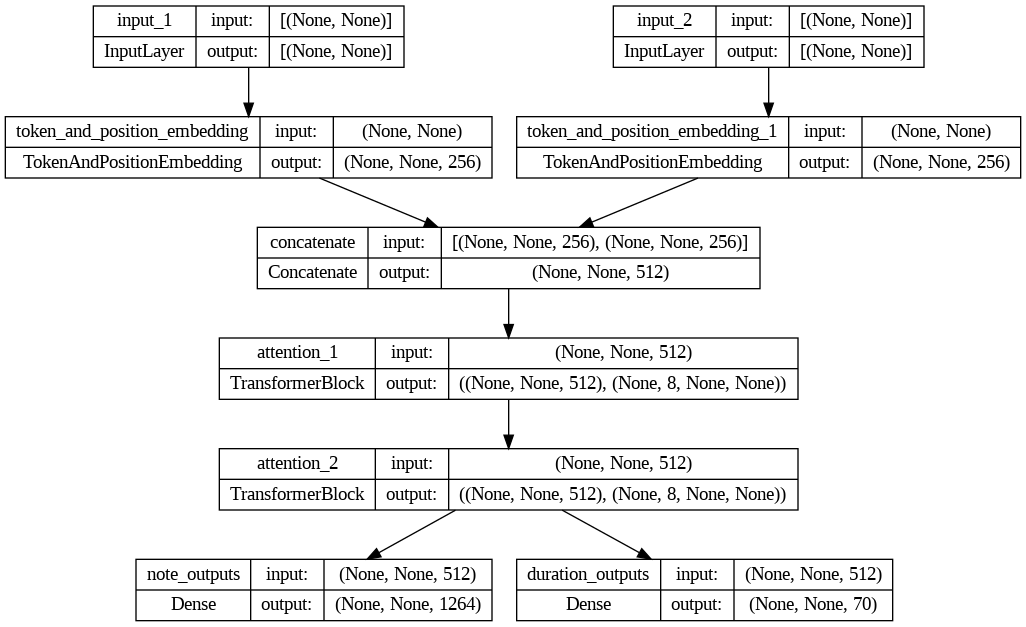
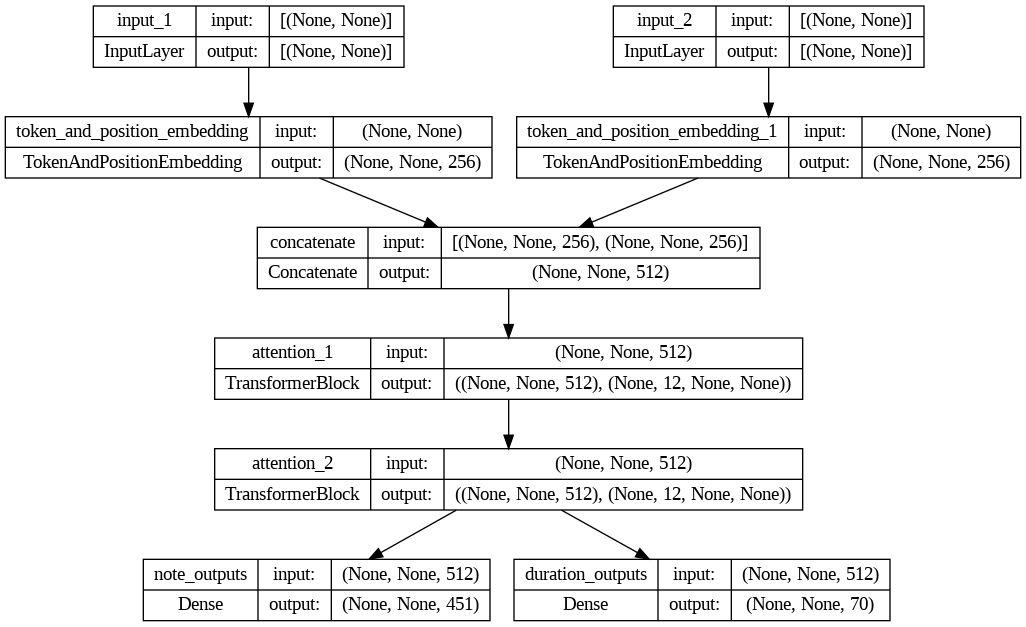
Update -- reworked voice merging system in choral model to use cross-voice interleaving; drastic increase in performance and training time

diff --git a/main.py b/main.py
@@ -61,7 +61,7 @@ def generate_composition(dataset="Combined_choral", generate_len=50, num_to_gene
         durations_vocab = pkl.load(f)
 
     # model = build_model(len(notes_vocab), len(durations_vocab), feed_forward_dim=512, num_heads=8)
-    if choral and suffix == "":
+    if choral and suffix in ["", "_New", "_Mini_New"]:
         model = build_model(len(notes_vocab), len(durations_vocab), embedding_dim=512, feed_forward_dim=1024,
                             key_dim=64, dropout_rate=0.3, l2_reg=1e-4, num_transformer_blocks=2, num_heads=8)
     elif suffix in ["_Mini", "_Tiny"]:
@@ -197,25 +197,55 @@ def train_choral_composition_model(epochs=100, suffix=""):
     INCLUDE_AUGMENTED = False
     DATAPATH = "Data/Glob/Combined_choral"
     VALIDATION_SPLIT = 0.1
-    # WEIGHT_DECAY = 1e-4
+    WEIGHT_DECAY = 1e-4
 
-    def merge_voice_parts(voice_parts_notes, voice_parts_durations):
+    def merge_voice_parts(voice_parts_notes, voice_parts_durations, seq_len=50):
         merged_notes = []
         merged_durations = []
         min_length = min([len(voice_parts_notes[voice]) for voice in voice_parts_notes])
         for voice in voice_parts_notes:
             voice_parts_notes[voice] = voice_parts_notes[voice][:min_length]
             voice_parts_durations[voice] = voice_parts_durations[voice][:min_length]
-        # max_len = max([len(voice_parts_notes[voice]) for voice in voice_parts_notes])
-        # for voice in voice_parts_notes:
-        #   cur_len = len(voice_parts_notes[voice])
-        #   voice_parts_notes[voice] = voice_parts_notes[voice] + voice_parts_notes[voice][:max_len-cur_len]
-        #   voice_parts_durations[voice] = voice_parts_durations[voice] + voice_parts_durations[voice][:max_len-cur_len]
-        for idx in range(len(voice_parts_notes["S"])):
-            note_str = " ".join([voice_parts_notes[voice][idx] for voice in voice_parts_notes])
-            duration_str = " ".join([voice_parts_durations[voice][idx] for voice in voice_parts_durations])
-            merged_notes.append(note_str)
-            merged_durations.append(duration_str)
+        # Old design: put notes in voice order ([S, S, S, ..., A, A, A, ..., T, T, T, ..., B, B, B, ...], ...)
+        # for idx in range(len(voice_parts_notes["S"])):
+        #     note_str = " ".join([voice_parts_notes[voice][idx] for voice in voice_parts_notes])
+        #     duration_str = " ".join([voice_parts_durations[voice][idx] for voice in voice_parts_durations])
+        #     merged_notes.append(note_str)
+        #     merged_durations.append(duration_str)
+        # New design attempt 1 -- put notes in cross-voice order ([S, A, T, B, S, A, T, B], ...)
+        notes_sequences = {"S": [], "A": [], "T": [], "B": []}
+        durations_sequences = {"S": [], "A": [], "T": [], "B": []}
+        for i in range(min_length):
+            for voice in voice_parts_notes:
+                notes_sequences[voice] += voice_parts_notes[voice][i].split(" ")
+                durations_sequences[voice] += voice_parts_durations[voice][i].split(" ")
+        note_parts_combined = []
+        duration_parts_combined = []
+        for i in range(0, min_length * 4, 4):  # each iteration processes one SATB set
+            if i + 4 > min_length * 4:  # if we're at the end and there's no full SATB set
+                break
+            for part in ['S', 'A', 'T', 'B']:
+                note_parts_combined.extend(notes_sequences[part][i // 4:i // 4 + 1])
+                duration_parts_combined.extend(durations_sequences[part][i // 4:i // 4 + 1])
+        # Split the combined sequences into chunks of seq_len
+        for i in range(0, len(note_parts_combined), seq_len):
+            merged_notes.append(' '.join(note_parts_combined[i:i + seq_len]))
+            merged_durations.append(' '.join(duration_parts_combined[i:i + seq_len]))
+        # New design attempt 2 -- combine cross-voice notes into one token (S:Note;A:Note;T:Note;B:Note)
+        # combined_tokens = []
+        # for i in range(min_length):
+        #     # Create the combined token for each index i
+        #     combined_note = ";".join([f"{voice}:{voice_parts_notes[voice][i]}" for voice in ['S', 'A', 'T', 'B']])
+        #     combined_duration = ";".join(
+        #         [f"{voice}:{voice_parts_durations[voice][i]}" for voice in ['S', 'A', 'T', 'B']])
+        #     combined_tokens.append((combined_note, combined_duration))
+        #
+        # # Chunk the combined SATB tokens into sequences of specified length
+        # for i in range(0, len(combined_tokens), seq_len):
+        #     notes_chunk = " ".join([token[0] for token in combined_tokens[i:i + seq_len]])
+        #     durations_chunk = " ".join([token[1] for token in combined_tokens[i:i + seq_len]])
+        #     merged_notes.append(notes_chunk)
+        #     merged_durations.append(durations_chunk)
         return merged_notes, merged_durations
 
     voices = ["S", "A", "T", "B"]
@@ -288,18 +318,17 @@ def train_choral_composition_model(epochs=100, suffix=""):
 
     gc.collect()
     # model = build_model(notes_vocab_size, durations_vocab_size, feed_forward_dim=512, num_heads=8)
-    # model = build_model(notes_vocab_size, durations_vocab_size, embedding_dim=512, feed_forward_dim=1024, num_heads=8,
-    #                     key_dim=64, dropout_rate=0.3, l2_reg=WEIGHT_DECAY, num_transformer_blocks=3, gradient_clip=1.)
-
+    model = build_model(notes_vocab_size, durations_vocab_size, embedding_dim=512, feed_forward_dim=1024, num_heads=8,
+                        key_dim=64, dropout_rate=0.3, l2_reg=WEIGHT_DECAY, num_transformer_blocks=2, gradient_clip=1.5)
     # Micro and Tiny models
     # model = build_model(notes_vocab_size, durations_vocab_size, embedding_dim=512, feed_forward_dim=512, num_heads=12,
     #                     key_dim=64, dropout_rate=0.4, l2_reg=0.0005, num_transformer_blocks=2, gradient_clip=1.5)
-    model = build_model(notes_vocab_size, durations_vocab_size, embedding_dim=512, feed_forward_dim=512, num_heads=8,
-                        key_dim=64, dropout_rate=0.3, l2_reg=0.0005, num_transformer_blocks=1, gradient_clip=1.5)
+    # model = build_model(notes_vocab_size, durations_vocab_size, embedding_dim=512, feed_forward_dim=512, num_heads=8,
+    #                     key_dim=64, dropout_rate=0.3, l2_reg=0.0005, num_transformer_blocks=1, gradient_clip=1.5)
     plot_model(model, to_file=f'Images/Combined_choral_composition{suffix.lower()}_model.png',
                show_shapes=True, show_layer_names=True, expand_nested=True)
 
-    LOAD_MODEL = True
+    LOAD_MODEL = False
     if LOAD_MODEL:
         model.load_weights(f"Weights/Composition_Choral{suffix}/checkpoint.ckpt")
         print("Loaded model weights")
@@ -307,14 +336,14 @@ def train_choral_composition_model(epochs=100, suffix=""):
     checkpoint_callback = callbacks.ModelCheckpoint(filepath=f"Weights/Composition_Choral{suffix}/checkpoint.ckpt",
                                                     save_weights_only=True, save_freq="epoch", verbose=0)
     tensorboard_callback = callbacks.TensorBoard(log_dir=f"Logs/Combined_Choral")
-    early_stopping = EarlyStopping(monitor='val_loss', patience=25, restore_best_weights=True)  # patience=5
+    early_stopping = EarlyStopping(monitor='val_loss', patience=15, restore_best_weights=True)  # patience=5
 
     # Tokenize starting prompt
     music_generator = MusicGenerator(notes_vocab, durations_vocab, generate_len=GENERATE_LEN, choral=True)
 
-    DATARANGE = 0.5  # 0.5 mini; 0.25 tiny; 0.1 micro
-    train_ds = train_ds.take(int(DATARANGE * train_size))
-    val_ds = val_ds.take(int(DATARANGE * (ds_size - train_size)))
+    # DATARANGE = 0.5  # 0.5 mini; 0.25 tiny; 0.1 micro
+    # train_ds = train_ds.take(int(DATARANGE * train_size))
+    # val_ds = val_ds.take(int(DATARANGE * (ds_size - train_size)))
     # Train the model
     model.fit(train_ds, validation_data=val_ds, epochs=epochs, verbose=1,
               callbacks=[checkpoint_callback, early_stopping, tensorboard_callback])  # , music_generator
@@ -322,11 +351,13 @@ def train_choral_composition_model(epochs=100, suffix=""):
     model.save(f"Weights/Composition_Choral{suffix}/Combined_choral.keras")
 
     # Test the model
-    start_notes = ["S:START", "A:START", "T:START", "B:START"]
-    start_durations = ["0.0", "0.0", "0.0", "0.0"]
-    info, midi_stream = music_generator.generate(start_notes, start_durations, max_tokens=50, temperature=0.5)
-    timestr = time.strftime("%Y%m%d-%H%M%S")
-    midi_stream.write("midi", fp=os.path.join(f"Data/Generated/Combined_choral", "output-" + timestr + ".mid"))
+    TEST_MODEL = False
+    if TEST_MODEL:
+        start_notes = ["S:START", "A:START", "T:START", "B:START"]
+        start_durations = ["0.0", "0.0", "0.0", "0.0"]
+        info, midi_stream = music_generator.generate(start_notes, start_durations, max_tokens=50, temperature=0.5)
+        timestr = time.strftime("%Y%m%d-%H%M%S")
+        midi_stream.write("midi", fp=os.path.join(f"Data/Generated/Combined_choral", "output-" + timestr + ".mid"))
 
     pass
 
@@ -1126,9 +1157,9 @@ if __name__ == '__main__':
     # generate_intro(dataset="Soprano", generate_len=30, temperature=0.7)
     # train_composition_model("Combined", epochs=100, load_augmented_dataset=True)
     # generate_composition("Combined_augmented", num_to_generate=5, generate_len=200, temperature=2.75)
-    # train_choral_composition_model(epochs=40, suffix="_Mini")
+    train_choral_composition_model(epochs=250, suffix="_New")
     # generate_composition("Combined_choral", num_to_generate=5, generate_len=150, choral=True,
-    #                      temperature=.75, suffix="_Mini")
+    #                      temperature=.75, suffix="_Mini_New")
     # for tempr in [0.75, 0.9, 1.0]:
     #     generate_composition("Combined_choral", num_to_generate=2, generate_len=200, choral=True, temperature=tempr)
     # TODO: make post-processing system to perform k-s key estimation, then adjust all notes to fit diatonically

diff --git a/plot_history.py b/plot_history.py
@@ -46,6 +46,6 @@ if __name__ == "__main__":
         plt.text(i, duration_outputs_loss[i]-offset, "{:.2f}".format(duration_outputs_loss[i]),
                  ha="center", va="bottom", fontsize=8)
     plt.legend()
-    plt.savefig(os.path.join(os.getcwd(), "Images/Combined_choral_micro_composition_model_history.png"))
+    plt.savefig(os.path.join(os.getcwd(), "Images/Combined_choral_mini_new_composition_model_history.png"))
     plt.show()
     pass
